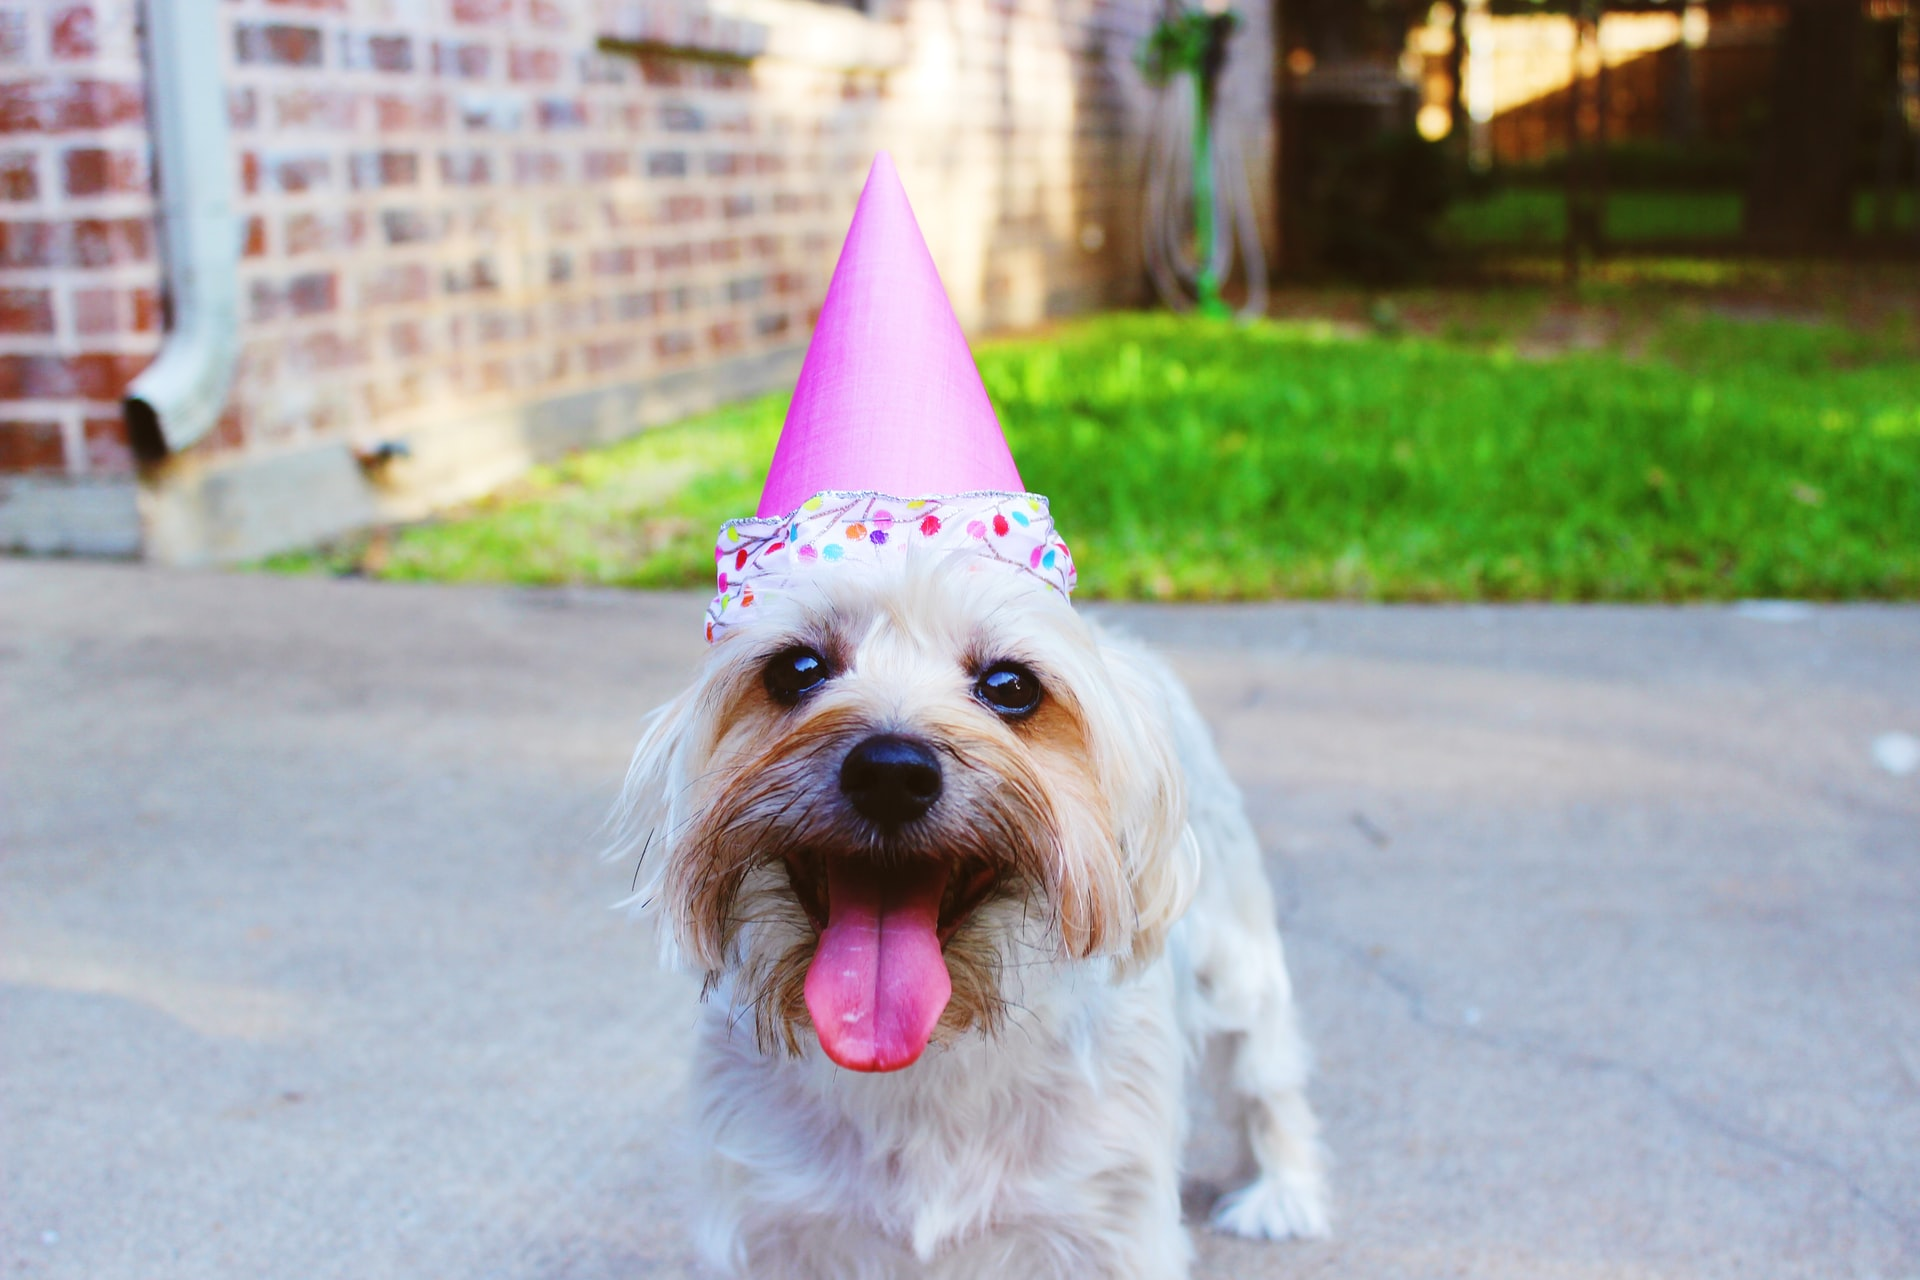
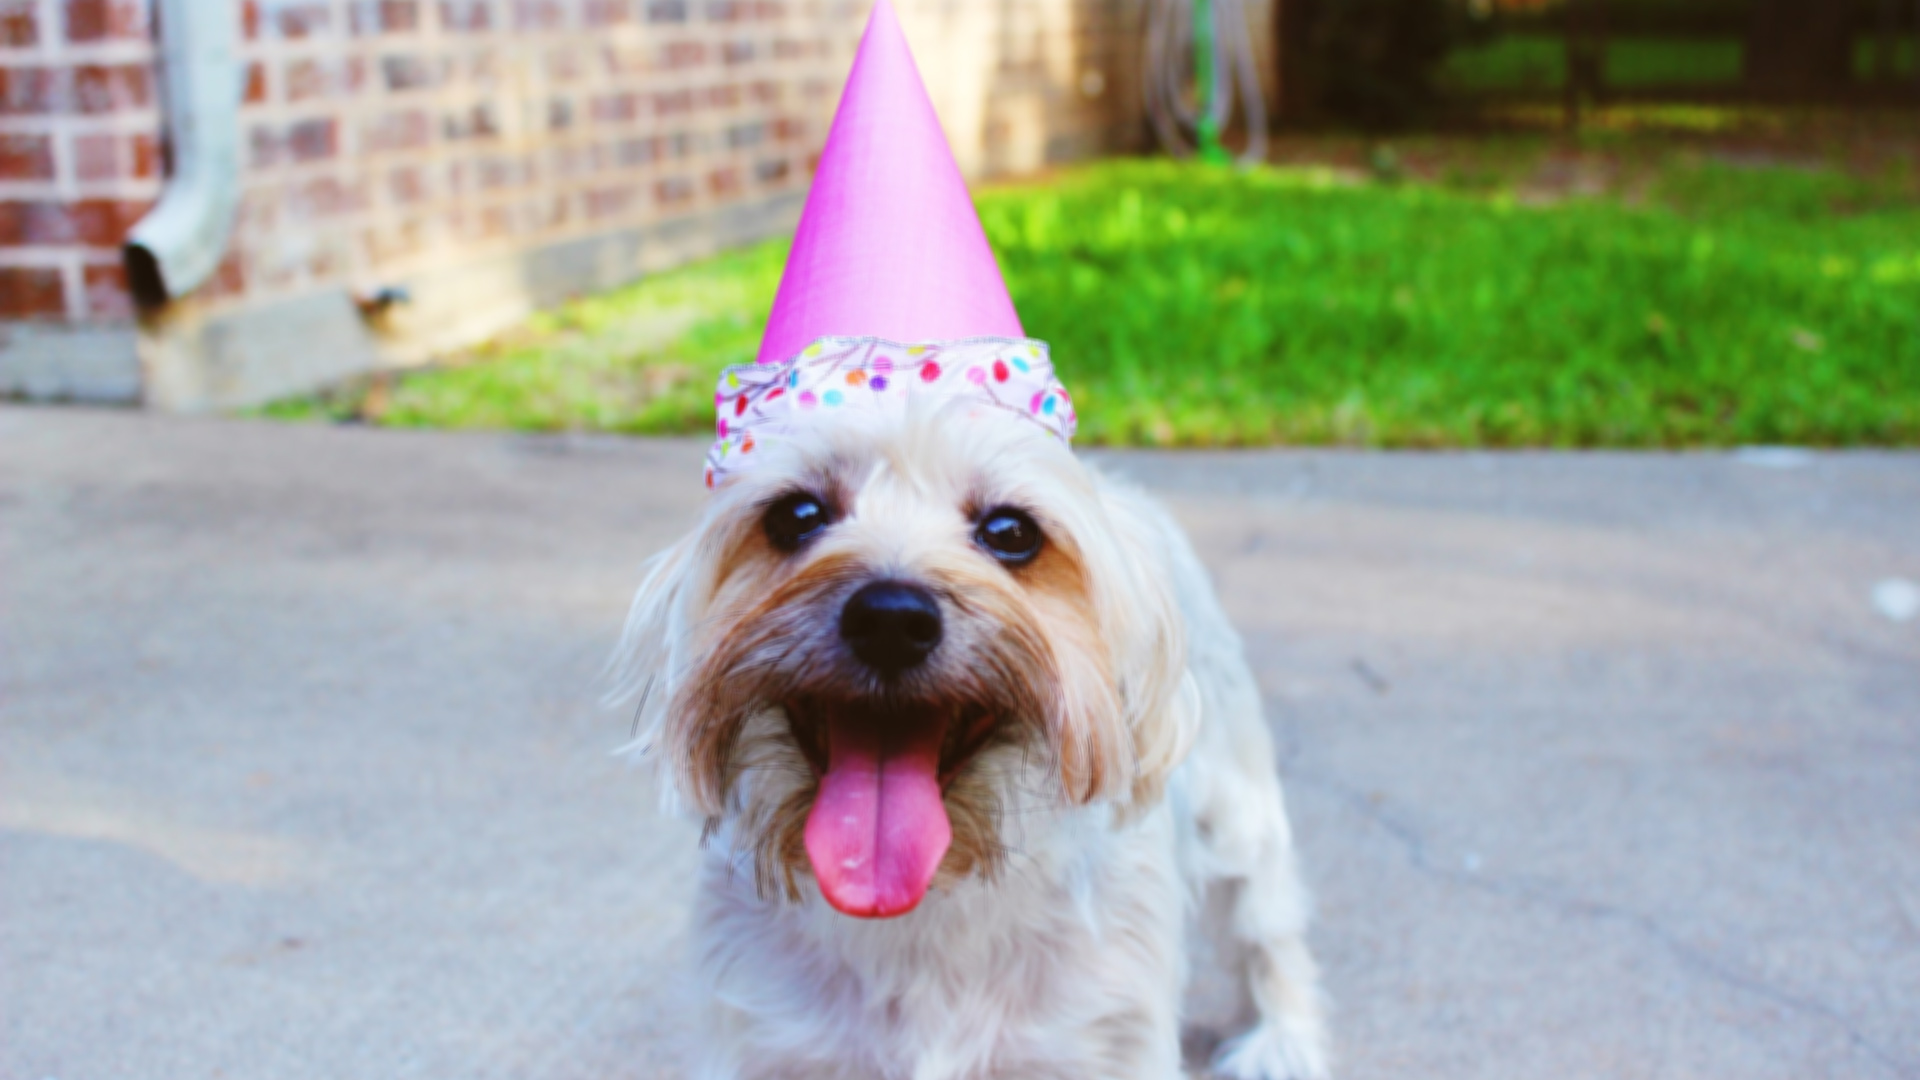
reduced index pic, fix btn, reduces pic for pet card prfile

diff --git a/public/customerform.html b/public/customerform.html
@@ -62,57 +62,7 @@
   </div>
   </div>
   <!-- Topbar End -->
-<!-- Navbar Start -->
-<!-- <div class="container-fluid p-0">
-  <nav class="navbar navbar-expand-lg bg-dark navbar-dark py-3 py-lg-0 px-lg-5">
-    <a href="" class="navbar-brand d-block d-lg-none">
-      <h1 class="m-0 display-5 text-capitalize font-italic text-white">
-        <span class="text-primary">Pet</span>Hotel
-      </h1>
-    </a>
-    <button type="button" class="navbar-toggler" data-toggle="collapse" data-target="#navbarCollapse">
-      <span class="navbar-toggler-icon"></span>
-    </button>
-    <div class="collapse navbar-collapse justify-content-between px-3" id="navbarCollapse">
-      <div class="navbar-nav mr-auto py-0">
-        <a href="/index" class="nav-item nav-link">Home</a>
-        <a href="/about" class="nav-item nav-link">About</a>
-        <a href="/service" class="nav-item nav-link">Service</a>
-        <a href="/requirements" class="nav-item nav-link">Requirements</a>
-        <a href="/booking" class="nav-item nav-link">Booking</a>
-        <a href="/contact" class="nav-item nav-link">Contact</a>
-        <a href="/faqs" class="nav-item nav-link">FAQs</a>
-      </div>
-        <a href="/login" class="form-btn btn-primary">Customer Login</a>
-        <a href="/registration" class="form-btn btn-primary">Sign Up</a>
-    </div>
-  </nav>
-</div> -->
-<!-- Navbar End -->
 
-  <!-- Second Navy Bar -->
-
-  <!-- <div class="container-fluid">
-    <nav class="navbar navbar-expand-lg bg-light pt-5 pb-4">
-      <a href="" class="navbar-brand d-block d-lg-none">
-        <h1 class="m-0 display-5 text-capitalize font-italic text-white">
-          <span class="text-primary">Pet</span>Hotel
-        </h1>
-      </a>
-      <button type="button" class="navbar-toggler" data-toggle="collapse" data-target="#navbarCollapse">
-        <span class="navbar-toggler-icon"></span>
-      </button>
-      <div class="collapse navbar-collapse justify-content-between px-3" id="navbarCollapse">
-        <div class="navbar-nav mr-auto py-0">
-          <a href="/customerform" class="nav-item nav-link active">Customer Info</a>
-          <a href="/petform" class="nav-item nav-link">Pet Info</a>
-          <a href="/booking" class="nav-item nav-link">Make a reservation</a>
-        </div>
-      </div>
-    </nav>
-  </div> -->
-
-  <!-- second Nav Bar end -->
 
    <!-- Second Navy Bar -->
    <nav class="navbar navbar-expand-custom navbar-mainbg">
@@ -178,58 +128,7 @@
       <div class="col-md-2">
         <label for="inputState" class="form-label">State</label>
         <input type="text" class="form-control" id="inputState" class="form-select mt-3">
-          <!-- <option selected>Choose...</option>
-          <option value="AL">Alabama</option>
-          <option value="AK">Alaska</option>
-          <option value="AZ">Arizona</option>
-          <option value="AR">Arkansas</option>
-          <option value="CA">California</option>
-          <option value="CO">Colorado</option>
-          <option value="CT">Connecticut</option>
-          <option value="DE">Delaware</option>
-          <option value="DC">District Of Columbia</option>
-          <option value="FL">Florida</option>
-          <option value="GA">Georgia</option>
-          <option value="HI">Hawaii</option>
-          <option value="ID">Idaho</option>
-          <option value="IL">Illinois</option>
-          <option value="IN">Indiana</option>
-          <option value="IA">Iowa</option>
-          <option value="KS">Kansas</option>
-          <option value="KY">Kentucky</option>
-          <option value="LA">Louisiana</option>
-          <option value="ME">Maine</option>
-          <option value="MD">Maryland</option>
-          <option value="MA">Massachusetts</option>
-          <option value="MI">Michigan</option>
-          <option value="MN">Minnesota</option>
-          <option value="MS">Mississippi</option>
-          <option value="MO">Missouri</option>
-          <option value="MT">Montana</option>
-          <option value="NE">Nebraska</option>
-          <option value="NV">Nevada</option>
-          <option value="NH">New Hampshire</option>
-          <option value="NJ">New Jersey</option>
-          <option value="NM">New Mexico</option>
-          <option value="NY">New York</option>
-          <option value="NC">North Carolina</option>
-          <option value="ND">North Dakota</option>
-          <option value="OH">Ohio</option>
-          <option value="OK">Oklahoma</option>
-          <option value="OR">Oregon</option>
-          <option value="PA">Pennsylvania</option>
-          <option value="RI">Rhode Island</option>
-          <option value="SC">South Carolina</option>
-          <option value="SD">South Dakota</option>
-          <option value="TN">Tennessee</option>
-          <option value="TX">Texas</option>
-          <option value="UT">Utah</option>
-          <option value="VT">Vermont</option>
-          <option value="VA">Virginia</option>
-          <option value="WA">Washington</option>
-          <option value="WV">West Virginia</option>
-          <option value="WI">Wisconsin</option>
-          <option value="WY">Wyoming</option> -->
+         
           
       </div>
       <div class="col-md-2">
@@ -246,17 +145,13 @@
       </div>
       <div class="col-12">
        
-        <button type="update" class="btn btn-outline-primary">Update</button>
+        <button type="update" class="btn btn-primary-mid">Update</button>
         <button onclick="location.href = '/petform';" id="myButton" class="btn btn-primary-mid" >Next</button>
       </div>
     </form>
   </div>
 
-
-
-
-
-  <!-- customer form End -->
+<!-- customer form End -->
 
  <!-- Footer Start -->
  <div class="container-fluid bg-dark text-white mt-5 py-5 px-sm-3 px-md-5">

diff --git a/public/index.html b/public/index.html
@@ -97,7 +97,7 @@
     <div id="header-carousel" class="carousel slide" data-ride="carousel">
       <div class="carousel-inner">
         <div class="carousel-item active">
-          <img class="w-100" src="img/carousel-1.jpg" alt="Image" />
+          <img class="d-block w-100" src="img/carousel-1.jpg" alt="Image" />
           <div class="carousel-caption d-flex flex-column align-items-center justify-content-center">
             <div class="p-3" style="max-width: 900px">
               <h3 class="text-white mb-3 d-none d-sm-block">
@@ -113,13 +113,13 @@
           </div>
         </div>
         <div class="carousel-item">
-          <img class="w-100" src="img/carousel-2.jpg" alt="Image" />
+          <img class="d-block w-100" src="img/carousel-2.jpg" alt="Image" />
           <div class="carousel-caption d-flex flex-column align-items-center justify-content-center">
             <div class="p-3" style="max-width: 900px">
               <h3 class="text-white mb-3 d-none d-sm-block">
                 Training
               </h3>
-              <h1 class="display-3 text-white mb-3">Cetrified professional trainers</h1>
+              <h1 class="display-3 text-white mb-3" style = "font-size: 36px">Cetrified professional trainers</h1>
               <h5 class="text-white mb-3 d-none d-sm-block">
                 Teaching you pet all the proper behaviors.
               </h5>
@@ -129,13 +129,13 @@
           </div>
         </div>
         <div class="carousel-item">
-          <img class="w-100" src="img/carousel-3.jpg" alt="Image" />
+          <img class="d-block w-100" src="img/carousel-3.jpg" alt="Image" />
           <div class="carousel-caption d-flex flex-column align-items-center justify-content-center">
             <div class="p-3" style="max-width: 900px">
               <h3 class="text-white mb-3 d-none d-sm-block">
                 Pet Parties
               </h3>
-              <h1 class="display-3 text-white mb-3">Not sure where to have your pets birthday</h1>
+              <h1 class="display-3 text-white mb-3 " style = "font-size: 36px">Not sure where to have your pets birthday</h1>
               <h5 class="text-white mb-3 d-none d-sm-block">
                 We can host parties of up to 15 Dogs of all sizes
               </h5>

diff --git a/public/css/style.css b/public/css/style.css
@@ -4499,7 +4499,7 @@ input[type="button"].btn-block {
   word-wrap: break-word;
   background-color: #fff;
   background-clip: border-box;
-  border: 1px solid rgba(0, 0, 0, 0.125);
+  
   border-radius: 0.25rem;
 }
 
@@ -10553,3 +10553,15 @@ adiv{
     margin-left: 4px;
 }
 
+@media screen and (min-width: 992px) {
+  .card-img-top {
+    width: 33%;
+  }
+  .card-body{
+    width: 100%;
+  }
+  .card{
+    width: 100%;
+  }
+}
+  
